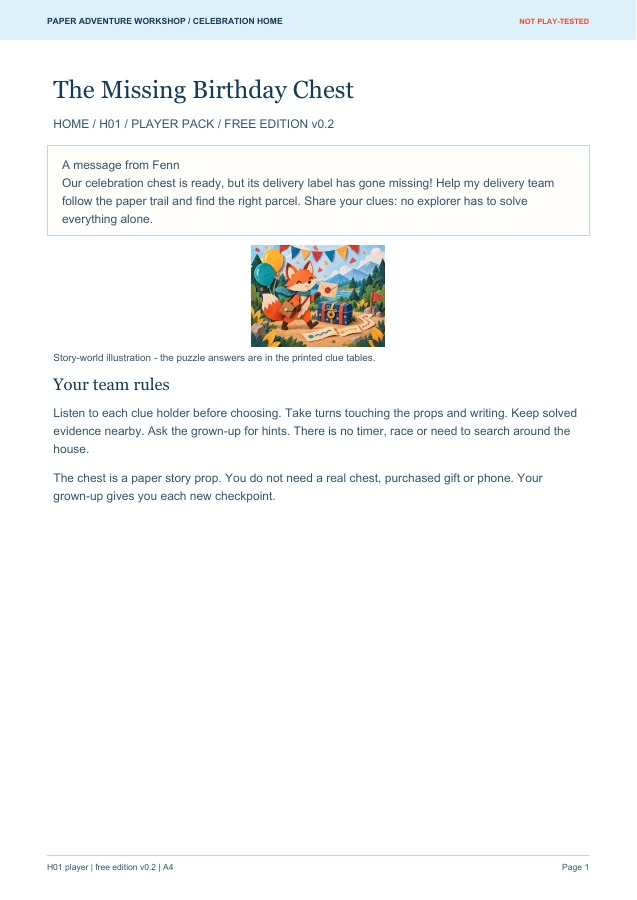
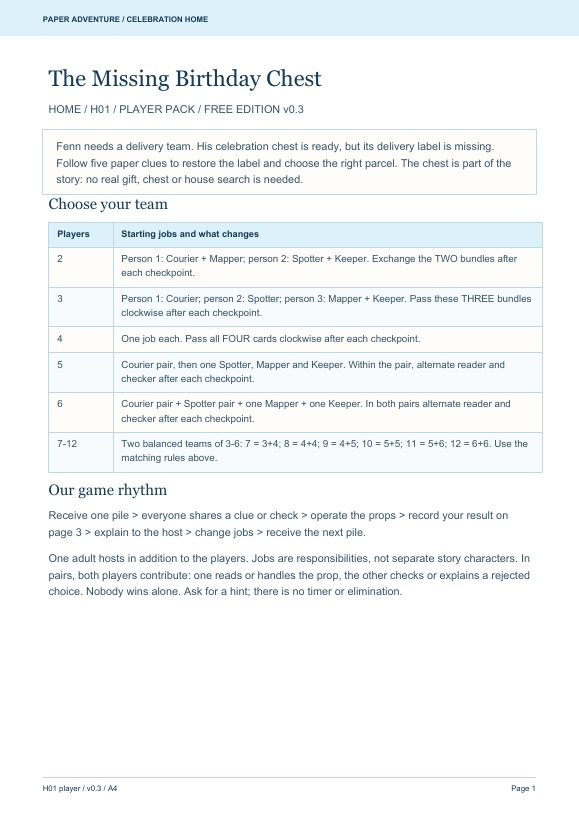
Release Celebration Home v0.3 with executable host steps and compact printable props

diff --git a/src/productPages.jsx b/src/productPages.jsx
@@ -185,7 +185,7 @@ export function ThemeDetailPage({ Link, themeId, selectedSetting, catalog, runti
       </section>
       <section id="how-the-story-works" className="theme-detail-section" aria-labelledby="theme-steps-heading"><div className="theme-detail-heading"><span className="eyebrow">THE STORY ROUTE</span><h2 id="theme-steps-heading">What players actually do</h2><p>Each result becomes a clue for the next checkpoint. The full answers stay in the {guide}.</p></div><ol className="theme-checkpoints">{details.stages.map(([title, action, result], index) => <li key={title}><span className="theme-step-number">{String(index + 1).padStart(2, '0')}</span><div><h3>{title}</h3><p>{action}</p><small>Leads to: {result}</small></div></li>)}</ol></section>
       <section className="theme-detail-section theme-reasons" aria-labelledby="theme-reasons-heading"><div className="theme-detail-heading"><span className="eyebrow">WHY CHOOSE THIS ONE</span><h2 id="theme-reasons-heading">What makes this story different</h2></div><div className="theme-reasons-grid">{details.reasons.map((reason, index) => <article key={reason}><span>{String(index + 1).padStart(2, '0')}</span><p>{reason}</p></article>)}</div></section>
-      <section className="theme-detail-section theme-prep" aria-labelledby="theme-prep-heading"><div><span className="eyebrow">BEFORE YOU PLAY</span><h2 id="theme-prep-heading">Simple paper setup</h2></div><div><p>Print the {setting === 'home' ? 'Player Pack for your household' : 'Player Pack for your groups'} and read the {guide} first. Ordinary paper and pens are enough to begin. Follow the pack-specific cutting instructions. Celebration Home v0.2 uses separate cards: prepare and distribute them as the Host Guide specifies.</p><p>{setting === 'home' ? 'An adult guides the story and decides whether to play entirely at a table.' : 'A teacher guides each checkpoint, distributes role clues and checks the group’s conclusion.'} No special equipment or digital account is needed by children.</p><div className="theme-print-specs">{theme.id === 'celebration' && setting === 'home' && <div><strong>Home cooperative edition v0.2</strong><span>15 Player Pack pages per team + 8 Host Guide pages once. One team for 2–6 players; two balanced teams for 7–12. Four rotating jobs, separate props and step-by-step hosting. Print single-sided: 23 sheets for one team or 38 for two.</span></div>}{knownV01Pages && !(theme.id === 'celebration' && setting === 'home') && <div><strong>Current PDF pages</strong><span>{independentClassroom ? '7 Player Pack pages + 7 Teacher Guide pages' : '6 Player Pack pages + 3 ' + guide + ' pages'} in each paper size (v0.1 file set).</span></div>}<div><strong>Copies to prepare</strong><span>Print one complete Player Pack per playing group and keep one {guide} for the adult. Use the same A4 or US Letter size for both files.</span></div><div><strong>Timing</strong><span>Preparation and play time will be added after physical print and real-group checks.</span></div></div><p className="theme-prep-note">These are PDF page counts, not a final printer-sheet promise. Check the files before you print for a group.</p></div></section>
+      <section className="theme-detail-section theme-prep" aria-labelledby="theme-prep-heading"><div><span className="eyebrow">BEFORE YOU PLAY</span><h2 id="theme-prep-heading">Simple paper setup</h2></div><div><p>Print the {setting === 'home' ? 'Player Pack for your household' : 'Player Pack for your groups'} and read the {guide} first. Use ordinary paper, pencils and adult-handled scissors. Follow the pack-specific cutting instructions. Celebration Home v0.3 uses separate cards: prepare and distribute them as the Host Guide specifies.</p><p>{setting === 'home' ? 'An adult guides the story and decides whether to play entirely at a table.' : 'A teacher guides each checkpoint, distributes role clues and checks the group’s conclusion.'} No special equipment or digital account is needed by children.</p><div className="theme-print-specs">{theme.id === 'celebration' && setting === 'home' && <div><strong>Home cooperative edition v0.3</strong><span>10 Player Pack pages per team + 10 Host Guide pages. One team for 2–6 players; two balanced teams for 7–12. Numbered actions, separate clue cards and a setup diagram. Read guide pages 1–9 on screen and print its finale page once: 11 sheets for one team or 21 for two.</span></div>}{knownV01Pages && !(theme.id === 'celebration' && setting === 'home') && <div><strong>Current PDF pages</strong><span>{independentClassroom ? '7 Player Pack pages + 7 Teacher Guide pages' : '6 Player Pack pages + 3 ' + guide + ' pages'} in each paper size (v0.1 file set).</span></div>}<div><strong>Copies to prepare</strong><span>Print one complete Player Pack per playing group and keep one {guide} for the adult. Use the same A4 or US Letter size for both files.</span></div><div><strong>Timing</strong><span>Preparation and play time will be added after physical print and real-group checks.</span></div></div><p className="theme-prep-note">These are PDF page counts, not a final printer-sheet promise. Check the files before you print for a group.</p></div></section>
       {edition.alternateWording && <aside className="theme-story-wording"><strong>Classroom wording choice</strong><p>The default story uses the neutral “{edition.title}” wording. An adult can choose “{edition.alternateWording.title}” when that version is available. Both use the same puzzles and answers; the choice is never inferred from a child’s background.</p></aside>}
       <section className="theme-detail-section theme-choose" aria-labelledby="theme-choose-heading"><div className="theme-detail-heading"><span className="eyebrow">CHOOSE YOUR NEXT STEP</span><h2 id="theme-choose-heading">Get this story, or create your own</h2><p>The ready-made game has a fixed story and answers. Custom creation is a separate new adventure.</p></div><div className="theme-choice-grid"><article><span className="eyebrow">READY-MADE · {label.toUpperCase()}</span><h3>{edition.title}</h3><p>The Player Pack and {guide} described on this page, in A4 and US Letter. No AI rewrite is included.</p><strong>{free ? 'Free' : offer ? (testPack ? 'Stripe test price ' : 'Planned price ') + formatUsd(offer.unitAmount) : 'Availability pending'}</strong>{free ? <Link className="button" to={`/en/samples/${setting}/`}>Get the free {label} game <DownloadSimple size={18} /></Link> : purchasable ? <Link className="button" to={`/en/checkout/?kind=ready&theme=${theme.id}&setting=${setting}`}>{runtime?.checkoutMode === 'test' ? 'Open test checkout' : 'Get this ready-made pack'} <ArrowRight size={18} /></Link> : <p className="theme-unavailable">{retired ? 'This former edition is closed to new orders.' : 'This ready-made edition is not available to order yet.'}</p>}{testPack && <small>Stripe test mode uses test cards only and does not charge real money.</small>}</article><article><span className="eyebrow">CUSTOM ADVENTURE</span><h3>Make a different story</h3><p>Use this world as a starting point, then choose your own players, place and story direction. This creates a separate game.</p><strong>Custom {label} proposal · {formatUsd(offerFor('custom', setting).unitAmount)}</strong><Link className="button-quiet" to={`/en/create/?theme=${theme.id}&setting=${setting}`}>Explore custom creation <ArrowRight size={18} /></Link></article></div>{story?.[otherSetting] && theme.availableSettings?.includes(otherSetting) && <p className="theme-edition-foot">Looking for a different group? <Link to={url(otherSetting)}>See “{story[otherSetting].title}” for {otherSetting === 'home' ? 'home' : 'the classroom'} <ArrowRight size={17} /></Link></p>}</section>
     </div>

diff --git a/src/freeDownload.jsx b/src/freeDownload.jsx
@@ -44,7 +44,7 @@ export default function FreeDownload({ Link, classroom = false, catalog }) {
   }
   return <main className="extended-page sample-download-page"><div className="sample-download-shell">
     <header className="sample-download-intro"><div><span className="eyebrow">FREE CELEBRATION GAME · {label.toUpperCase()}</span><h1>Download your free Celebration {label} game.</h1><h2>{story.title}</h2><p>{story.goal}</p><div className="sample-download-facts"><span>Ages 6–12</span><span>{classroom ? '2–35 students' : '2–12 players'}</span><span>5 checkpoints</span></div></div><figure><img src={story.image || theme.image} alt={`${story.title} story illustration`} width="800" height="600" /><figcaption>Story illustration · download the printable files below</figcaption></figure></header>
-    <section className="live-panel sample-download-panel" aria-labelledby="sample-download-title"><nav className="live-tabs" aria-label="Choose edition"><Link className={!classroom ? 'active' : ''} aria-current={!classroom ? 'page' : undefined} to="/en/samples/home/">Home</Link><Link className={classroom ? 'active' : ''} aria-current={classroom ? 'page' : undefined} to="/en/samples/classroom/">Classroom</Link></nav><p className="sample-edition-explanation">{classroom ? 'A teacher-led group game with its own classroom story and materials.' : 'A family game with its own Home story and materials.'} Home and Classroom are different games; choose the setting you will use.</p>{!classroom && <div className="sample-edition-explanation"><strong>Cooperative Home edition v0.2</strong><p>Four rotating explorer jobs across five checkpoints. Play as one team with 2–6 players, or two balanced teams with 7–12; one adult hosts in addition to the players.</p><p>Player Pack: 15 pages per team. Host Guide: 8 pages once. Print 23 sheets for one team or 38 for two teams, single-sided. The guide lists every prop, cut and handout.</p></div>}<p className="live-note">Trial {version || 'draft'} · English PDF · No account or payment needed.</p><h2 id="sample-download-title">Your complete game includes two PDFs.</h2><p>Download both to get started. The Player Pack is for the children; the {guide} is for you and includes the answers.</p>
+    <section className="live-panel sample-download-panel" aria-labelledby="sample-download-title"><nav className="live-tabs" aria-label="Choose edition"><Link className={!classroom ? 'active' : ''} aria-current={!classroom ? 'page' : undefined} to="/en/samples/home/">Home</Link><Link className={classroom ? 'active' : ''} aria-current={classroom ? 'page' : undefined} to="/en/samples/classroom/">Classroom</Link></nav><p className="sample-edition-explanation">{classroom ? 'A teacher-led group game with its own classroom story and materials.' : 'A family game with its own Home story and materials.'} Home and Classroom are different games; choose the setting you will use.</p>{!classroom && <div className="sample-edition-explanation"><strong>Cooperative Home edition v0.3</strong><p>Four rotating explorer jobs across five checkpoints. Play as one team with 2–6 players, or two balanced teams with 7–12; one adult hosts in addition to the players.</p><p>Player Pack: 10 pages per team. Host Guide: 10 pages. Read guide pages 1–9 on screen; print its finale page 10 once. Recommended printing: 11 sheets for one team or 21 for two, single-sided. Follow the illustrated setup, cut checklist and numbered checkpoint instructions.</p></div>}<p className="live-note">Trial {version || 'draft'} · English PDF · No account or payment needed.</p><h2 id="sample-download-title">Your complete game includes two PDFs.</h2><p>Download both to get started. The Player Pack is for the children; the {guide} is for you and includes the answers.</p>
     <div className="sample-paper-choice"><h3>1. Choose your printer’s paper size</h3><div className="live-tabs" role="group" aria-label="Paper size">{['A4', 'Letter'].map(size => <button key={size} type="button" disabled={Boolean(busy)} className={paper === size ? 'active' : ''} aria-pressed={paper === size} onClick={() => { setPaper(size); setNotice(''); }}>{size === 'Letter' ? 'US Letter' : 'A4'}</button>)}</div><p><strong>A4:</strong> 210 × 297 mm. <strong>US Letter:</strong> 8.5 × 11 inches, commonly used in the US and Canada. Both contain the same game; you only need one paper size.</p></div>
     <div className="sample-bundle"><div><h3>2. Get the complete {label} game</h3><p>One ZIP containing the {paper === 'Letter' ? 'US Letter' : 'A4'} Player Pack and {guide}. Extract the ZIP before opening the PDFs.</p></div><button type="button" className="button" disabled={Boolean(busy)} onClick={() => download('complete')}>{busy === 'complete' ? 'Preparing both PDFs…' : 'Download complete game · ZIP'} <DownloadSimple size={19} /></button></div>
     <h3 className="sample-separate-heading">Prefer separate PDF files?</h3><div className="live-downloads"><div><strong>Player Pack</strong><p>Story, clues and paper activities to give to {classroom ? 'students' : 'children'}.</p><button type="button" aria-label={`Download ${setting} ${paper} Player Pack`} onClick={() => download('player')} disabled={Boolean(busy)}>{busy === 'player' ? 'Downloading…' : 'Download Player Pack'} <DownloadSimple size={17} /></button></div><div><strong>{guide}</strong><p>Preparation, hints and answers. Keep this PDF separate from the players.</p><button type="button" aria-label={`Download ${setting} ${paper} ${guide}`} onClick={() => download('guide')} disabled={Boolean(busy)}>{busy === 'guide' ? 'Downloading…' : `Download ${guide}`} <DownloadSimple size={17} /></button></div></div>{busy && <p role="status">{busy === 'complete' ? 'Fetching both PDFs for your complete pack…' : 'Fetching your PDF…'}</p>}{notice && <p className="sample-download-notice" role="status">{notice}</p>}{error && <p className="live-alert" role="alert"><WarningCircle size={18} />{error} No complete pack is saved unless both files are available.</p>}

diff --git a/scripts/generate_celebration_home_v03.py b/scripts/generate_celebration_home_v03.py
@@ -1,0 +1,110 @@
+"""Executable five-checkpoint game with compact cut sheets and screen-first hosting."""
+import hashlib, json
+from reportlab.platypus import SimpleDocTemplate, PageBreak, Table, TableStyle, Flowable
+from pypdf import PdfReader
+import generate_celebration_samples as g
+from generate_celebration_home_v02 import ROLES, TASKS, table, page
+
+ROOT, OUT = g.ROOT, g.OUT
+TEAM_ROWS = [
+ ['2','Person 1: Courier + Mapper; person 2: Spotter + Keeper. Exchange the TWO bundles after each checkpoint.'],
+ ['3','Person 1: Courier; person 2: Spotter; person 3: Mapper + Keeper. Pass these THREE bundles clockwise after each checkpoint.'],
+ ['4','One job each. Pass all FOUR cards clockwise after each checkpoint.'],
+ ['5','Courier pair, then one Spotter, Mapper and Keeper. Within the pair, alternate reader and checker after each checkpoint.'],
+ ['6','Courier pair + Spotter pair + one Mapper + one Keeper. In both pairs alternate reader and checker after each checkpoint.'],
+ ['7-12','Two balanced teams of 3-6: 7 = 3+4; 8 = 4+4; 9 = 4+5; 10 = 5+5; 11 = 5+6; 12 = 6+6. Use the matching rules above.']]
+
+def steps(items):
+ return [g.p(f'<b>{i+1}.</b> {s}') for i,s in enumerate(items)]
+
+def cutgrid(cards,w,cols=2,height=125):
+ cells=[g.p(f'<b>{title}</b><br/>{text}','small' if height<=110 or height==240 else 'body') for title,text in cards]
+ for cell in cells:
+  assert cell.wrap(w/cols-24,1000)[1]<=height-18,('Card content overflow',height,cell.getPlainText())
+ rows=[cells[i:i+cols]+['']*(cols-len(cells[i:i+cols])) for i in range(0,len(cells),cols)]
+ t=Table(rows,colWidths=[w/cols]*cols,rowHeights=[height]*len(rows))
+ t.setStyle(TableStyle([('GRID',(0,0),(-1,-1),.8,g.LINE),('VALIGN',(0,0),(-1,-1),'TOP'),('LEFTPADDING',(0,0),(-1,-1),12),('RIGHTPADDING',(0,0),(-1,-1),12),('TOPPADDING',(0,0),(-1,-1),12),('BACKGROUND',(0,0),(-1,-1),g.PALE)]))
+ return t
+
+class Diagram(Flowable):
+ def __init__(self,w,kind):
+  Flowable.__init__(self);self.width=w;self.height=190 if kind=='table' else 200;self.kind=kind
+ def draw(self):
+  c=self.canv;w=self.width;c.setFont('ArialBold',10);c.setStrokeColor(g.LINE);c.setFillColor(g.NAVY)
+  if self.kind=='map':
+   for name,x,y in [('POND',.15,150),('BRIDGE',.50,150),('CLOUD',.85,150),('RED FLAG',.85,35),('SUN',.15,35),('TREE',.50,35)]:
+    c.roundRect(w*x-47,y-17,94,40,5,stroke=1,fill=0);c.drawCentredString(w*x,y,name)
+   c.setFont('Arial',9);c.drawString(0,188,'DRAW IN THE OPEN SPACE. No lines are pre-solved.')
+  else:
+   for x,y,bw,bh,title,sub in [(0,110,w*.47,70,'HOST ONLY','Five piles + guide + finale'),(w*.53,110,w*.47,70,'ACTIVE CHECKPOINT','Only the current props'),(0,10,w*.47,75,'TEAM TRAIL','Page 3 + pencils'),(w*.53,10,w*.47,75,'EVIDENCE PARKING','Solved sheets / cards')]:
+    c.roundRect(x,y,bw,bh,6,stroke=1,fill=0);c.drawString(x+10,y+bh-23,title);c.setFont('Arial',9);c.drawString(x+10,y+22,sub);c.setFont('ArialBold',10)
+
+def nextbox(w):
+ return g.box('<b>Finish this checkpoint:</b> show your result and reasons to the host; keep the solved evidence beside page 3. Change job holders using page 1, then receive the next pile.',w,g.CREAM)
+
+def player(w):
+ pages=[]
+ pages.append(page('The Missing Birthday Chest','HOME / H01 / PLAYER PACK / FREE EDITION v0.3')+[g.box('<b>Fenn needs a delivery team.</b> His celebration chest is ready, but its delivery label is missing. Follow five paper clues to restore the label and choose the right parcel. The chest is part of the story: no real gift, chest or house search is needed.',w,g.CREAM),g.p('Choose your team','h2'),table(['Players','Starting jobs and what changes'],TEAM_ROWS,w,[.13,.87]),g.gap(),g.p('Our game rhythm','h2'),g.p('Receive one pile > everyone shares a clue or check > operate the props > record your result on page 3 > explain to the host > change jobs > receive the next pile.'),g.p('One adult hosts in addition to the players. Jobs are responsibilities, not separate story characters. In pairs, both players contribute: one reads or handles the prop, the other checks or explains a rejected choice. Nobody wins alone. Ask for a hint; there is no timer or elimination.')])
+ cards=[(role,'<br/>'.join(f'<b>{i+1}.</b> {t}' for i,t in enumerate(TASKS[role]))+'<br/><br/>After each checkpoint follow the change rule on page 1.') for role in ROLES]
+ pages.append(page('Four explorer job cards','Adult: cut the FOUR rectangles. Numbers 1-5 match the checkpoints. Assign using page 1; keep job cards available throughout.')+[cutgrid(cards,w,2,240),g.gap(12),g.p('A helper may read a card aloud, but its holder still makes a check. Share a job card within a pair. Never move another player\'s prop without asking.')])
+ rows=[['1 / Letter','Letter: __________\nStart place: __________________'],['2 / Route','Strip order: __________________\nFlag: _______________________'],['3 / Label','Label: ______ Number: ______\nCode mark: __________________'],['4 / Message','Letters in order: ______________\nPlace word: __________________'],['5 / Parcel','Parcel: ______________________\nOur reasons: _________________']]
+ t=table(['Checkpoint','Our agreed evidence'],rows,w,[.3,.7]);t.setStyle(TableStyle([('TOPPADDING',(0,1),(-1,-1),20),('BOTTOMPADDING',(0,1),(-1,-1),20)]))
+ pages.append(page('Team trail and evidence','Mapper writes; Keeper keeps this sheet on the table. No personal names are needed.')+[t,g.gap(15),g.p('Evidence parking','h2'),g.p('Put solved boards, route strips and message beside this sheet. Keep them until the final parcel: you will use the earlier results again.'),g.p('If we disagree: point to the printed clue, compare one condition at a time, then ask the host for a hint.')])
+ pages.append(page("1 / Find Fenn's letter",'Fenn left three possible letters. Only one seal matches everything your clue holders know.')+steps(['Courier, Spotter and Keeper each read their separate clue aloud. Mapper points to each candidate below.','Compare one condition at a time. Reject a letter if ANY condition fails. Everyone offers a check or a reason.','Agree on one letter. Mapper writes its ID and ROUTE START on page 3. Explain all three conditions to the host.'])+[g.SealComparisonCards(w,g.HOME_LETTER_CARDS,'home'),g.gap(12),nextbox(w),g.gap(12),g.p('ADULT CUT LINE / Keep the board above intact. Cut ONLY the three cards below.','small'),cutgrid([('Courier / ANIMAL','Fenn uses a FOX seal.'),('Spotter / EARS','The seal has TWO pointed ears.'),('Keeper / DOTS','The seal has exactly THREE dots.')],w,3,108)])
+ pages.append(page('2 / Build the delivery route','Your letter gives the starting place. Fenn needs a route that reaches a FLAG, not a dead end.')+steps(['Courier reads the start from page 3. Each strip holder reads its FROM and TO places aloud.','Mapper lays a strip starting at that place. Add another only when its FROM matches the previous TO. Spotter checks every join.','If a branch stops without a flag, put those strips aside and try the other start. Draw only the agreed route below.','Keeper records strip IDs in order and the flag on page 3. Each player points to a connection or explains a rejected branch.'])+[Diagram(w,'map'),nextbox(w),g.gap(10),g.p('ADULT CUT LINE / Keep the map above. Cut the FIVE strips below; share among all players.','small'),cutgrid([(f'Strip {a}',f'FROM: {b}<br/>TO: {c}') for a,b,c in g.HOME_ROUTE_CARDS],w,3,65)])
+ pages.append(page('3 / Restore the delivery label','The route flag narrows the labels. Two more clues tell you which delivery label belongs to Fenn.')+steps(['Courier, Spotter and Keeper read their clue cards. Mapper compares the four labels below.','Check flag, stars and number on EACH label. One matching feature is not enough. Each player confirms or rejects a candidate.','Record the chosen label ID, NUMBER and CODE MARK on page 3. Show the host how it satisfies all three clues.'])+[g.CelebrationChoiceCards(w,g.HOME_LABEL_CARDS,'home'),g.gap(12),nextbox(w),g.gap(12),g.p('ADULT CUT LINE / Keep the board above; cut ONLY the three clue cards below.','small'),cutgrid([('Courier / FLAG','Use the flag colour reached at checkpoint 2.'),('Spotter / STARS','The label has exactly TWO stars.'),('Keeper / NUMBER','The label number is FOUR.')],w,3,108)])
+ pages.append(page('4 / Decode the delivery place','The chosen label tells you which code-mark ROW to use. The place is fictional; stay at the table.')+steps(['Read the code mark recorded on page 3. Spotter finds that row on key I; Keeper finds the SAME row on key II (page 8).','Courier reads the first symbol below. Its key holder finds the symbol COLUMN, follows it to the selected ROW, then says that letter aloud.','Mapper writes the letter in its matching box. Repeat left to right for all five symbols. Partners alternate asking, looking up or checking letters.','Join the five letters into a place word. Check the row again, write the word on page 3 and explain the lookup to the host.'])+[g.p('Symbols to read, from left to right','h2'),cutgrid([('SUN','Letter: ______'),('CLOUD','Letter: ______'),('FLAG','Letter: ______'),('MOON','Letter: ______'),('PATH','Letter: ______')],w,5,110),g.gap(18),g.box('Our code mark: ______________________<br/><br/>Our place word: _____________________',w),g.gap(12),g.p('How a lookup works / practice only','h2'),g.p('Imagine a practice row CAT and a column STAR. If their crossing cell contains Z, say Z. This practice example is not a clue or an answer to Fenn\'s message.'),nextbox(w)])
+ f=page('4 / Two separate key cards','Adult: cut outside each entire bordered TABLE; do not cut individual cells. Give key I to Spotter and key II to Keeper.')
+ for title,cols,rows in [('KEY I / Spotter',['Code mark','SUN','CLOUD'],[[r[0],r[1],r[2]] for r in g.HOME_CODE_ROWS]),('KEY II / Keeper',['Code mark','FLAG','MOON','PATH'],[[r[0],r[3],r[4],r[5]] for r in g.HOME_CODE_ROWS])]:
+  f += [g.p(title,'h2'),table(cols,rows,w,[1/len(cols)]*len(cols)),g.gap(26)]
+ f += [g.box('<b>Key holders:</b> use ONLY the code mark from your chosen label. Share the requested letter aloud. Keep the cards separate so everyone needs to listen. The code mark must be the same on both keys.',w)]
+ pages.append(f)
+ pages.append(page('5 / Choose the final parcel','You have restored the label and decoded the place. Now bring the evidence together.')+steps(['Read the flag, label number and place word from page 3. Do not choose by the parcel letter alone.','Spotter checks flag; Keeper checks number; Mapper checks place. Courier presents the choice. Partners check a rejected candidate or confirm a fact.','A parcel must match ALL THREE facts. Choose one and explain why the others fail. Record its ID on page 3.','Ask the host to confirm your evidence, then receive page 10 and Fenn\'s letter. No further role change is needed.'])+[g.gap(10),g.p('ADULT / Cut the FOUR rectangles; place all four face up for the team.','small'),cutgrid([(f'PARCEL {a}',f'Flag: {b}<br/>Label number: {c}<br/>Place: {d}') for a,b,c,d in [('A','RED',4,'TABLE'),('B','RED',4,'SHELF'),('C','BLUE',4,'TABLE'),('D','RED',5,'TABLE')]],w,2,150)])
+ pages.append(page('Finish the delivery together','Host: give this page only after the team chooses its parcel. This is a shared finish, not a race.')+[g.p('Our final report','h2'),g.box('Chosen parcel: __________________________<br/><br/>Flag and where we found it: __________________________<br/><br/>Number and where we found it: ________________________<br/><br/>Place and how we decoded it: _________________________',w),g.gap(18),g.p('Read Fenn\'s letter','h2'),g.p('After your host checks the evidence, listen to the celebration letter. With two teams, each explains its own result before the shared reading. You do not need to finish at the same speed.'),g.p('Our teamwork keepsake / optional','h2'),g.box('One thing I did to help: ______________________________<br/><br/>One helpful thing somebody else did: ___________________<br/><br/>A question we worked out together: ____________________<br/><br/>Draw your team\'s delivery badge in the space below.',w,g.CREAM),g.gap(90),g.p('No names, prizes, scores or purchased gifts are required. Keep the badge if you wish.')])
+ return pages
+
+CHECKS = [
+ dict(title='1 / Find the letter',props='Player page 4: intact letter board + THREE cut clue cards.',story='Fenn remembers his seal, but the delivery desk has mixed the letters. Each clue holder knows one part.',give='Board in the centre. Animal card to Courier, ears to Spotter, dots to Keeper. Mapper holds trail page 3.',actions=['Ask the three holders to read their clues, one at a time; help with reading without choosing.','Ask Mapper to compare letters A, B and C. Have each holder point to the feature their clue describes.','Invite an explanation for every rejected letter. If someone guesses correctly, still ask for the three checks.','Have Mapper record letter ID and route start; check BOTH entries before accepting.'],answer='Letter A / SUN: FOX, two ears, three dots. B has two dots; C is an owl with zero ears.',hints=['Which feature does your own clue ask you to check?','Try the animal first, then ears, then dots.','Look for FOX with TWO ears and THREE dots.'],end='Say: You found Fenn\'s letter; its start place opens the route. Keep page 4 and the trail. Change jobs NOW using player page 1; then give pile 2.'),
+ dict(title='2 / Build the route',props='Player page 5: intact map + FIVE cut strips. Keep the selected letter and trail.',story='The letter gives a start. Build a continuous route to a flag; a route ending somewhere else will not deliver the chest.',give='Map in the centre. Share five strips round the team. With six players, the sixth is the first map checker; nobody needs a separate strip.',actions=['Ask Courier to read SUN from the trail; every strip holder reads FROM and TO.','Mapper places a SUN-starting strip. Spotter checks its end against the next strip\'s start.','If the team follows D-E, ask whether CLOUD is a flag. Let them remove that branch and try the other SUN start.','Have players draw SUN-TREE-BRIDGE-RED FLAG on the map. Keeper records A-B-C and RED FLAG on the trail.','Invite each player to explain one join or why the CLOUD branch fails.'],answer='A-B-C / RED FLAG. A: SUN-TREE; B: TREE-BRIDGE; C: BRIDGE-RED FLAG. D-E ends at CLOUD.',hints=['What does the last place need to be?','Match FROM to the previous TO; compare the two SUN starts.','Try SUN-TREE, then TREE-BRIDGE; which strip leaves BRIDGE?'],end='Say: The flag gives the label colour. Keep the map, selected route strips and trail. Change jobs NOW; then give pile 3.'),
+ dict(title='3 / Restore the label',props='Player page 6: intact label board + THREE cut clue cards. Keep route evidence.',story='Use the flag you reached plus the two remaining conditions to restore the delivery label.',give='Board to Mapper. Flag clue to Courier, stars to Spotter, number to Keeper.',actions=['Courier reads the earlier flag result; the other holders read stars and number.','Ask the team to check EACH label against all three requirements. Partners may each check a rejected label.','Do not accept a label selected only for colour. Ask which condition rules out B, C and D.','Mapper records A, 4 and FOX on page 3. Confirm that FOX is copied as the code mark, not as the place.'],answer='Label A / number 4 / code mark FOX. B has one star, C is blue, D has number 5.',hints=['Which fact comes from the route?','Check RED, TWO stars and FOUR separately.','Compare all three facts on label A, then copy its CODE MARK.'],end='Say: The label gives the code row and parcel number. Keep label board and trail. Change jobs NOW; then give pile 4.'),
+ dict(title='4 / Decode the place',props='Player page 7 message + page 8 TWO whole key tables. Keep trail and label.',story='The label code mark selects a row. Combining letters from two key holders reveals the delivery place.',give='Message to Courier + Mapper. Key I to Spotter; key II to Keeper. Each key is a whole table.',actions=['Ask the team to read FOX from the label. Both key holders point privately to their FOX row.','Courier asks for SUN. Spotter uses FOX row / SUN column and says T. Mapper writes T under SUN.','Repeat CLOUD with key I, then FLAG, MOON and PATH with key II. In pairs alternate lookup and verification.','Have players read T-A-B-L-E together, check the chosen row and copy TABLE to the trail.','Confirm their method. TABLE is a story location; do not send anyone to search furniture.'],answer='FOX row gives T, A, B, L, E = TABLE. BELL = SHELF; KITE = CHAIR; LEAF = FLOOR. These rows are distractors.',hints=['What code mark did your label carry?','Use that row on BOTH keys; find the symbol column.','FOX / SUN gives T and FOX / CLOUD gives A. Continue the other key.'],end='Say: The message gives the parcel\'s delivery place. Keep message, keys and trail. Change jobs NOW; then give pile 5.'),
+ dict(title='5 / Confirm delivery',props='Player page 9: FOUR parcel cards. Keep all earlier evidence; hold player page 10 and guide page 10 back.',story='One parcel must match your flag, label number AND decoded place. Explain the evidence to restore the delivery.',give='Put all four parcel cards face up. Everyone can see the trail and solved evidence.',actions=['Spotter checks RED, Keeper checks 4, Mapper checks TABLE. Courier reports the proposed parcel.','Invite partners to reject a different candidate or verify where an evidence item came from.','Accept only after all three facts are explained; a correct letter without reasons is not complete.','Give player page 10. Invite the short final report; then give one finale letter from guide page 10.','With two teams, let each finish independently. Hear both final explanations, then read the letter together.'],answer='Parcel A. B fails place, C fails flag, D fails number. Correct evidence: RED / 4 / TABLE.',hints=['Read the three facts on your trail.','Compare one fact at a time on every parcel.','Which parcel has RED, 4 and TABLE together?'],end='Say: Your evidence restores the label! Fenn\'s celebration chest can be delivered. Invite a contribution from each player. No more rotation, physical gift or chest is needed.')]
+
+def guide(w):
+ pages=[]
+ pages.append(page('Host Guide / start here','CELEBRATION HOME v0.3 / ADULT ONLY / Answers stay with the host.')+[g.p('Your preparation route','h2')]+steps(['Choose one team of 2-6 or two balanced teams for 7-12; adult host is additional. Assign jobs using player page 1.','Print player pages 1-10 per team and this guide\'s page 10 ONCE. Read guide pages 1-9 on screen, or print them if preferred.','Cut only specified rectangles on the print checklist (next page). Make five numbered piles per team; keep guide and finale hidden.','Set the table using guide page 3. Read player page 1 and the opening below; give jobs and trail, then pile 1.','Follow one host checkpoint page at a time (guide pages 4-8). Confirm evidence and change jobs after EVERY checkpoint 1-4.','After checkpoint 5, give player page 10 and one finale letter. Finish together.'])+[g.p('Opening / read aloud','h2'),g.box('Fenn\'s celebration chest is ready, but its delivery label is missing. You are his delivery team. Five paper tasks will help you choose the right parcel. Share your clues and take turns. I will give each new pile when you explain the last one. Ask me for hints; this is not a race.',w,g.CREAM),g.p('Bring ordinary paper, pencils and adult-handled scissors. Envelopes are optional. No phone, real lock, gift or room search. This version has been checked for logic and document consistency; family enjoyment, timing and physical printing have not been play-tested.')])
+ rows=[['1','Story + team rules','Keep intact; read together'],['2','FOUR job cards','Cut four rectangles; assign jobs'],['3','Team trail','Keep intact on table'],['4','Letter board + THREE clues','Cut three bottom cards; keep upper board / pile 1'],['5','Map + FIVE route strips','Cut five bottom strips; keep upper map / pile 2'],['6','Label board + THREE clues','Cut three bottom cards; keep upper board / pile 3'],['7','Message','Keep intact / pile 4'],['8','TWO key tables','Cut outside BOTH whole tables / pile 4'],['9','FOUR parcels','Cut four rectangles / pile 5'],['10','Final report + optional badge','Keep intact; hold back until parcel confirmed']]
+ pages.append(page('Print and cut checklist','Choose A4 OR US Letter for both PDFs. Actual size / 100%, single-sided. Written colour labels allow black-and-white use.')+[table(['Player page','Pieces','Prepare / distribute'],rows,w,[.13,.30,.57]),g.gap(14),g.p('Recommended printing','h2'),g.p('<b>One team:</b> player pages 1-10 + guide page 10 = <b>11 sheets</b>. <b>Two teams:</b> two player sets + guide page 10 once = <b>21 sheets</b>. Page 10 has TWO finale letters. Keep guide pages 1-9 on screen.'),g.p('If you print the entire guide, totals are 20 sheets for one team or 30 for two. Never print both paper sizes. The keepsake is optional, but is already part of the final report page.'),g.p('Cutting check','h2'),g.p('Each team needs FOUR jobs, THREE letter clues, FIVE strips, THREE label clues, TWO keys and FOUR parcels: 21 cut pieces. Cut borders, not words or table cells. Keep upper boards on pages 4-6. For two teams label backs A/B BEFORE cutting; keep sets separate.')])
+ pages.append(page('Set up and change jobs','Use a clear table. Number piles 1-5 for EACH team; envelopes are optional.')+[Diagram(w,'table'),table(['Pile','Contents'],[['1','Player page 4 board + three letter clues'],['2','Page 5 map + five route strips'],['3','Page 6 board + three label clues'],['4','Page 7 message + page 8 two keys'],['5','Page 9 four parcel cards']],w,[.15,.85]),g.gap(12),g.p('Precisely when to change jobs','h2'),g.p('After EACH confirmed checkpoint 1, 2, 3 and 4: leave evidence on the table, collect current clue cards into the solved pile, change JOB cards using player page 1, then distribute the next pile to the NEW holders. Never move solved evidence to another team.'),g.p('For 5-6, keep job assignments but swap reader/operator and checker within each pair. Example: the Courier pair\'s first player reads in checkpoint 1; the second reads in checkpoint 2. Other single jobs still make their own checks. For 2-4 pass the specified bundles/cards. In two-team mode repeat the process independently.')])
+ for item in CHECKS:
+  f=page(item['title'],'ADULT ONLY / Give only the current pile. Read the story and task; keep the answer private.')
+  f += [g.p('Prepare and distribute','h2'),g.p(item['props']),g.p(item['give']),g.box('<b>Read aloud:</b> '+item['story'],w,g.CREAM),g.gap(10),g.p('Run the checkpoint in this order','h2')]+steps(item['actions'])
+  f += [g.p('Accept only with evidence / answer','h2'),g.p(item['answer']),g.p('Hints / offer one, then let them try again','h2')]
+  f += [g.p(f'<b>{i+1}.</b> {t}','small') for i,t in enumerate(item['hints'])]
+  f += [g.box('<b>Close and transition:</b> '+item['end'],w,g.CREAM)]
+  pages.append(f)
+ pages.append(page('Help without taking over','Keep this page on screen while hosting. These adjustments do not change the puzzle answers.')+[table(['Situation','Concrete response'],[['Cannot read','Read the card with its holder, then ask that player to point to the matching fact or repeat it to the group.'],['One player dominates','Pause. Ask each holder to share their clue; give a quiet player a specific comparison or lookup. Adults help read, not choose.'],['A pair is waiting','Let one partner read or operate and the other check a candidate. Swap these duties next checkpoint.'],['Wrong answer / guessing','Ask which printed facts support it. Compare one condition again; offer the first hint. No penalty.'],['Stuck','Offer hints from the current host page in order. After each, let the team operate. If you supply the answer, still have them show the evidence.'],['Saw a later card','Keep it face down until that checkpoint. If its answer is known, ask a different player to explain the method.'],['Missing piece','Reprint that player page or copy its complete printed text. Do not substitute adult answers for props.'],['Pause / player leaves','Keep one evidence set together; resume at the next unfinished checkpoint. Combine a departed job with a remaining one.'],['Two teams','Each can request help independently. Do not race or wait at every checkpoint. Hear both reports before the shared finale.']],w,[.26,.74]),g.gap(12),g.p('Final host check','h2'),g.p('All participants have contributed a clue, check, lookup or reason. No unsafe hiding, running, climbing or private belongings are part of play. Ask what instruction was confusing; real-family feedback is still needed to assess fun and difficulty.')])
+ pages.append(page("Fenn's celebration letters",'PRINT THIS GUIDE PAGE ONCE. Adult cuts TWO rectangles; give ONE letter per team only after final evidence is confirmed.')+[cutgrid([(title,'Dear explorers,<br/><br/>You restored my missing delivery label! Your route reached RED FLAG, your label gave number 4, and your message said TABLE. All three matched Parcel A.<br/><br/>My celebration chest can now be delivered. Thank you for listening to each other, trying another route and checking every clue together.<br/><br/>From Fenn the fox<br/><br/>Optional adult message: ______________________') for title in ['ONE TEAM / TEAM A','TEAM B']],w,1,270)])
+ return pages
+
+def footer(c,d):
+ w,h=d.pagesize;c.setFillColor(g.BLUE);c.rect(0,h-37,w,37,fill=1,stroke=0);c.setFillColor(g.NAVY);c.setFont('ArialBold',8);c.drawString(44,h-23,'PAPER ADVENTURE / CELEBRATION HOME');c.setFont('Arial',8);c.drawString(44,28,f'H01 {d.role} / v0.3 / {d.paper}');c.drawRightString(w-44,28,f'Page {d.page}');c.setStrokeColor(g.LINE);c.line(44,42,w-44,42)
+
+def main():
+ g.validate_logic();items=[]
+ for paper,size in [('A4',g.A4),('Letter',g.letter)]:
+  for role,builder in [('player',player),('guide',guide)]:
+   pages=builder(size[0]-88);path=OUT/f'celebration-home-{role}-v0.3-{paper}.pdf'
+   doc=SimpleDocTemplate(str(path),pagesize=size,leftMargin=44,rightMargin=44,topMargin=60,bottomMargin=55,title=f'Celebration Home {role} v0.3',author='Paper Adventure');doc.role=role;doc.paper=paper
+   flow=[]
+   for i,content in enumerate(pages):
+    if i:flow.append(PageBreak())
+    flow.extend(content)
+   doc.build(flow,onFirstPage=footer,onLaterPages=footer)
+   count=len(PdfReader(path).pages);assert count==10,(path,count)
+   items.append(dict(path=path.relative_to(ROOT).as_posix(),paper=paper,role=role,pages=count,bytes=path.stat().st_size,sha256=hashlib.sha256(path.read_bytes()).hexdigest(),r2Key=f'free/celebration/home/v0.3/{paper}/{role}.pdf'))
+ (OUT/'celebration-home-v0.3-manifest.json').write_text(json.dumps(dict(version='v0.3',items=items),indent=2)+'\n')
+ print('Generated four v0.3 PDFs, ten pages each.')
+
+if __name__=='__main__':main()
+

diff --git a/scripts/check_celebration_home_v03.py b/scripts/check_celebration_home_v03.py
@@ -1,0 +1,45 @@
+"""Check cut geometry, referenced pages and executable checkpoint contracts."""
+import json, hashlib
+import pdfplumber
+from pypdf import PdfReader
+from generate_celebration_home_v03 import ROOT, CHECKS, TEAM_ROWS
+from generate_celebration_samples import validate_logic
+validate_logic()
+m=json.loads((ROOT/'output/pdf/celebration-home-v0.3-manifest.json').read_text())
+assert len(m['items'])==4
+for f in m['items']:
+ path=ROOT/f['path'];pages=PdfReader(path).pages
+ assert len(pages)==10
+ assert hashlib.sha256(path.read_bytes()).hexdigest()==f['sha256']
+ text='\n'.join(p.extract_text() for p in pages)
+ assert 'v0.3' in text and 'v0.2' not in text
+ if f['role']=='player':
+  for n,title in [(1,'Choose your team'),(2,'Four explorer job cards'),(3,'Team trail'),(4,'1 / Find'),(5,'2 / Build'),(6,'3 / Restore'),(7,'4 / Decode'),(8,'4 / Two'),(9,'5 / Choose'),(10,'Finish')]:
+   assert title in pages[n-1].extract_text(),(path,n)
+  assert 'Answer /' not in text and 'Letter A / SUN:' not in text
+ else:
+  assert '11 sheets' in text and '21 sheets' in text
+  for i in range(5):
+   p=pages[i+3].extract_text()
+   for section in ['Prepare and distribute','Run the checkpoint','Accept only','Hints /','Close and transition']:
+    assert section in p,(path,i,section)
+  assert "Fenn's celebration letters" in pages[9].extract_text()
+ with pdfplumber.open(path) as pdf:
+  for n,p in enumerate(pdf.pages):
+   for ch in p.chars:
+    assert 0<=ch['x0']<ch['x1']<=p.width+1 and 0<=ch['top']<ch['bottom']<=p.height+1,(path,n,ch)
+   for ln in p.extract_text().splitlines():
+    assert 'v0.1' not in ln
+for n in range(2,13):
+ teams=[n] if n<=6 else [n//2,n-n//2]
+ assert all(2<=s<=6 for s in teams)
+ for size in teams:
+  bundles=[['Courier','Mapper'],['Spotter','Keeper']] if size==2 else [['Courier'],['Spotter'],['Mapper','Keeper']] if size==3 else [['Courier'],['Spotter'],['Mapper'],['Keeper']]
+  assert set(sum(bundles,[]))=={'Courier','Spotter','Mapper','Keeper'}
+  assert len(bundles)<=size
+  for checkpoint in range(5):
+   if size<=4:
+    rotated=bundles[checkpoint%len(bundles):]+bundles[:checkpoint%len(bundles)]
+    assert len(rotated)==size
+print('PASS: 40 pages, page mapping, five executable host scripts, card-fit assertions, two paper sizes, integrity, unique clue chain and 2-12 team rules. No human play-test claim.')
+

diff --git a/AGENTS.md b/AGENTS.md
@@ -87,3 +87,5 @@ On 2026-10-10 the owner approved a first-screen custom workspace with original i
 On 2026-10-10 the owner requested restoring the custom illustration in a compact first-screen hero, text left/art right, while keeping the creator visible below. On narrow phones use a short illustration strip so the form remains easy to reach. Keep the complete explanatory and SEO content.
 
 On 2026-10-10 the owner approved redesigning the actual Celebration Home download around four rotating jobs, 2-6 one-team / 7-12 two-team arrangements, distributed clues, split keys, separate props and a complete print/host checklist. Home v0.2 has 15 player pages and 8 guide pages in each paper size. Verify actual served file hashes after release; do not equate rules/geometry checks with real-family play-testing. Preserve classroom v0.1 and other products.
+
+On 2026-10-10 the owner approved a step-by-step Celebration Home redesign after identifying sparse pages and ambiguous operation. v0.3 has 10 Player pages and 10 Guide pages in each paper size. Read guide 1-9 on screen and print finale page 10 once: 11 sheets one team, 21 two teams. Every checkpoint has prepare, distribute, numbered actions, evidence acceptance, three hints and an explicit transition. Jobs change after each checkpoint 1-4; 5-6-player pairs swap reader/checker duties. Cut cards are compact and clue values unchanged. Family fun, duration and physical-print testing remain unverified.
